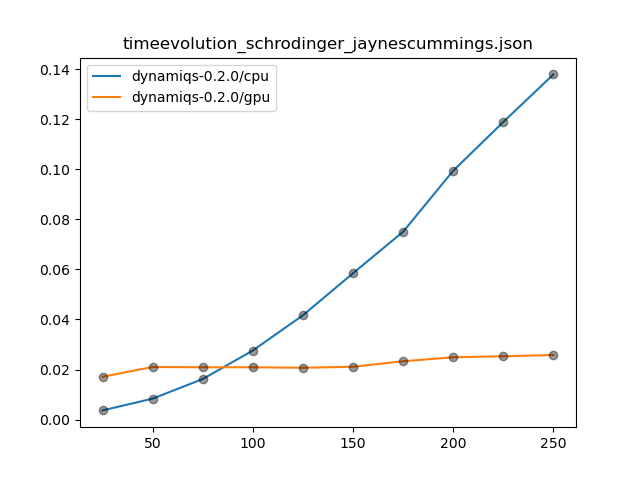
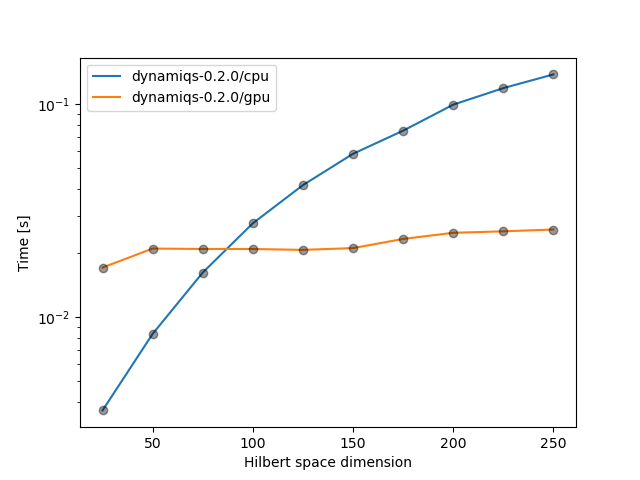
report with all the plots

diff --git a/src/benchmarks-dynamiqs/benchmarkutils.py b/src/benchmarks-dynamiqs/benchmarkutils.py
@@ -93,14 +93,8 @@ def benchmark(name, f, setup, samples, evals, cutoffs, check_f, check_thresh=1e-
         # Set the backend
         dq.set_device(backend)
 
-        # If we are saving the states, then save the results to a different file
-        if save_states is not None:
-            if save_states:
-                curr_name = f'{name}(save_states)'
-            else:
-                curr_name = name
-        else:
-            curr_name = name
+        # Dummy variable for the name (will be modified by the backend, jit, etc.)
+        curr_name = name
 
         # To jit or not to jit, that is the question
         if jit_status:
@@ -110,6 +104,11 @@ def benchmark(name, f, setup, samples, evals, cutoffs, check_f, check_thresh=1e-
         else:
             f_to_run = f
             curr_name = f'{curr_name}[{backend}]'
+
+        # If we are saving the states, then save the results to a different file
+        if save_states is not None:
+            if save_states:
+                curr_name = f'{curr_name}(save_states)'
 
         # Now run this for various cutoffs
         for N in cutoffs:

diff --git a/src/plot_results.py b/src/plot_results.py
@@ -34,11 +34,17 @@ for testname in testnames:
     data = transform_json(d)
     
     for name, points in data:
-        plt.title(testname)
+        #plt.title(testname)
         plt.plot(points[0], points[1], label=name)
         plt.plot(points[0], points[1], "ok", alpha=0.4)
+        
 
     plt.legend()
+
+    plt.xlabel('Hilbert space dimension')
+    plt.ylabel('Time [s]')
+    plt.yscale('log')
+    
     plt.savefig(f'../plots/{testname}.png')
     #plt.show()
     plt.clf()

diff --git a/report.md b/report.md
@@ -1,0 +1,81 @@
+# 0. Code
+Link to [Github](https://github.com/HarshBabla99/qoptics_pkgs_benchmarks)
+
+# 1. Time Evolution
+Benchmarks for `sesolve` (for the lossless case) and `mesolve` (for the lossy case)
+
+### 1.1.1: Driven cavity (Schrodinger Evolution)
+
+| Save intermediate states | Don't save intermediate states |
+|----------|----------|
+| ![](plots/timeevolution_schrodinger_cavity(save_states).json.png) | ![](plots/timeevolution_schrodinger_cavity.json.png) |
+
+### 1.1.2: Driven & lossy cavity (Time-independent Master Equation)
+
+| Save intermediate states | Don't save intermediate states |
+|----------|----------|
+| ![](plots/timeevolution_master_cavity(save_states).json.png) | ![](plots/timeevolution_master_cavity.json.png) |
+
+### 1.1.3: Driven & lossy cavity (Time-dependent Master Equation)
+
+| Save intermediate states | Don't save intermediate states |
+|----------|----------|
+| ![](plots/timeevolution_master_timedependent_cavity(save_states).json.png) | ![](plots/timeevolution_master_timedependent_cavity.json.png) |
+
+### 1.2.1: Jaynes-Cummings Hamiltonian (Schrodinger Evolution)
+
+| Save intermediate states | Don't save intermediate states |
+|----------|----------|
+| ![](plots/timeevolution_schrodinger_jaynescummings(save_states).json.png) | ![](plots/timeevolution_schrodinger_jaynescummings.json.png) |
+
+### 1.2.2: Jaynes-Cummings Hamiltonian (Time-independent Master Equation)
+
+| Save intermediate states | Don't save intermediate states |
+|----------|----------|
+| ![](plots/timeevolution_master_jaynescummings(save_states).json.png) | ![](plots/timeevolution_master_jaynescummings.json.png) |
+
+### 1.2.3: Jaynes-Cummings Hamiltonian (Time-dependent Master Equation)
+
+| Save intermediate states | Don't save intermediate states |
+|----------|----------|
+| ![](plots/timeevolution_master_timedependent_jaynescummings(save_states).json.png) | ![](plots/timeevolution_master_timedependent_jaynescummings.json.png) |
+
+
+# 2. Helper functions
+
+### 2.1: Expectation values
+
+| On states | On operators |
+|----------|----------|
+| ![](plots/expect_state.json.png) | ![](plots/expect_operator.json.png) |
+
+### 2.2: Wigner function
+
+| On states | On operators |
+|----------|----------|
+| ![](plots/wigner_state.json.png) | ![](plots/wigner_operator.json.png) |
+
+### 2.3: Partial trace
+
+| On states | On operators |
+|----------|----------|
+| ![](plots/ptrace_operator.json.png) | ![](plots/ptrace_state.json.png) |
+
+### 2.4: Coherent stes
+
+| Using `coherent()` | Using `displace()` |
+|----------|----------|
+| ![](plots/coherentstate.json.png) | ![](plots/displace.json.png) |
+
+# 3. Arithmetic
+These are all on dense operators & vectors (since dynamiqs doesn't support sparse operators yet)
+
+### 3.1 Addition
+| Operator-operator | 
+|----------|
+| ![](plots/addition_dense_dense.json.png) |
+
+### 3.2 Multiplication
+| Operator-operator | Bra-operator | Operator-Ket |  
+|----------|----------|----------| 
+| ![](plots/multiplication_dense_dense.json.png) | ![](plots/multiplication_bra_dense.json.png) | ![](plots/multiplication_dense_ket.json.png) |  
